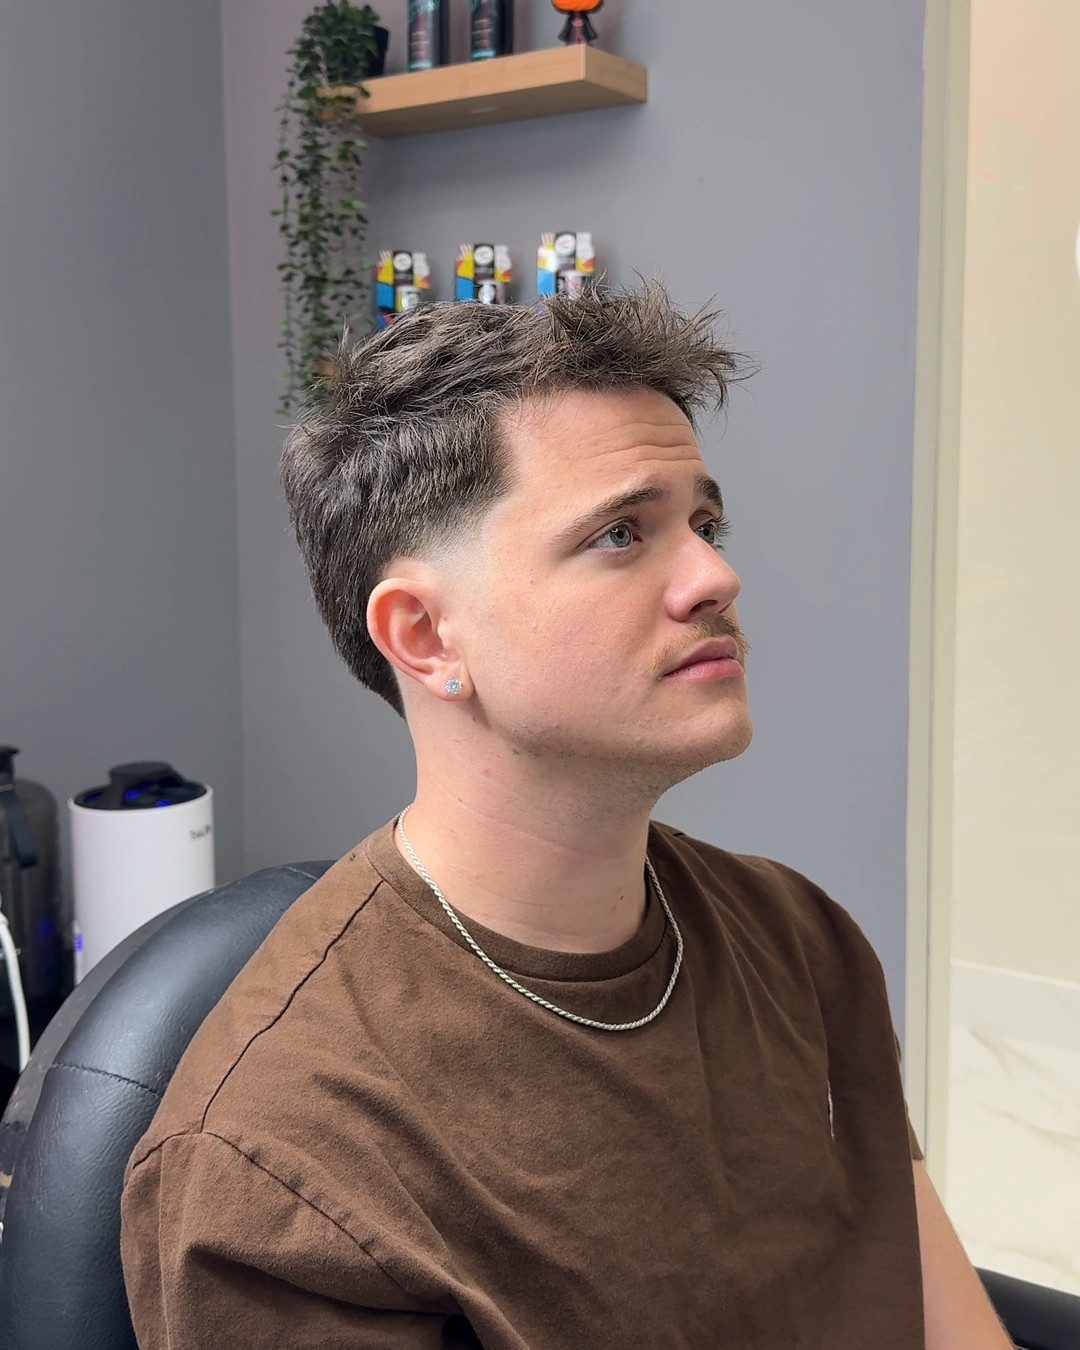
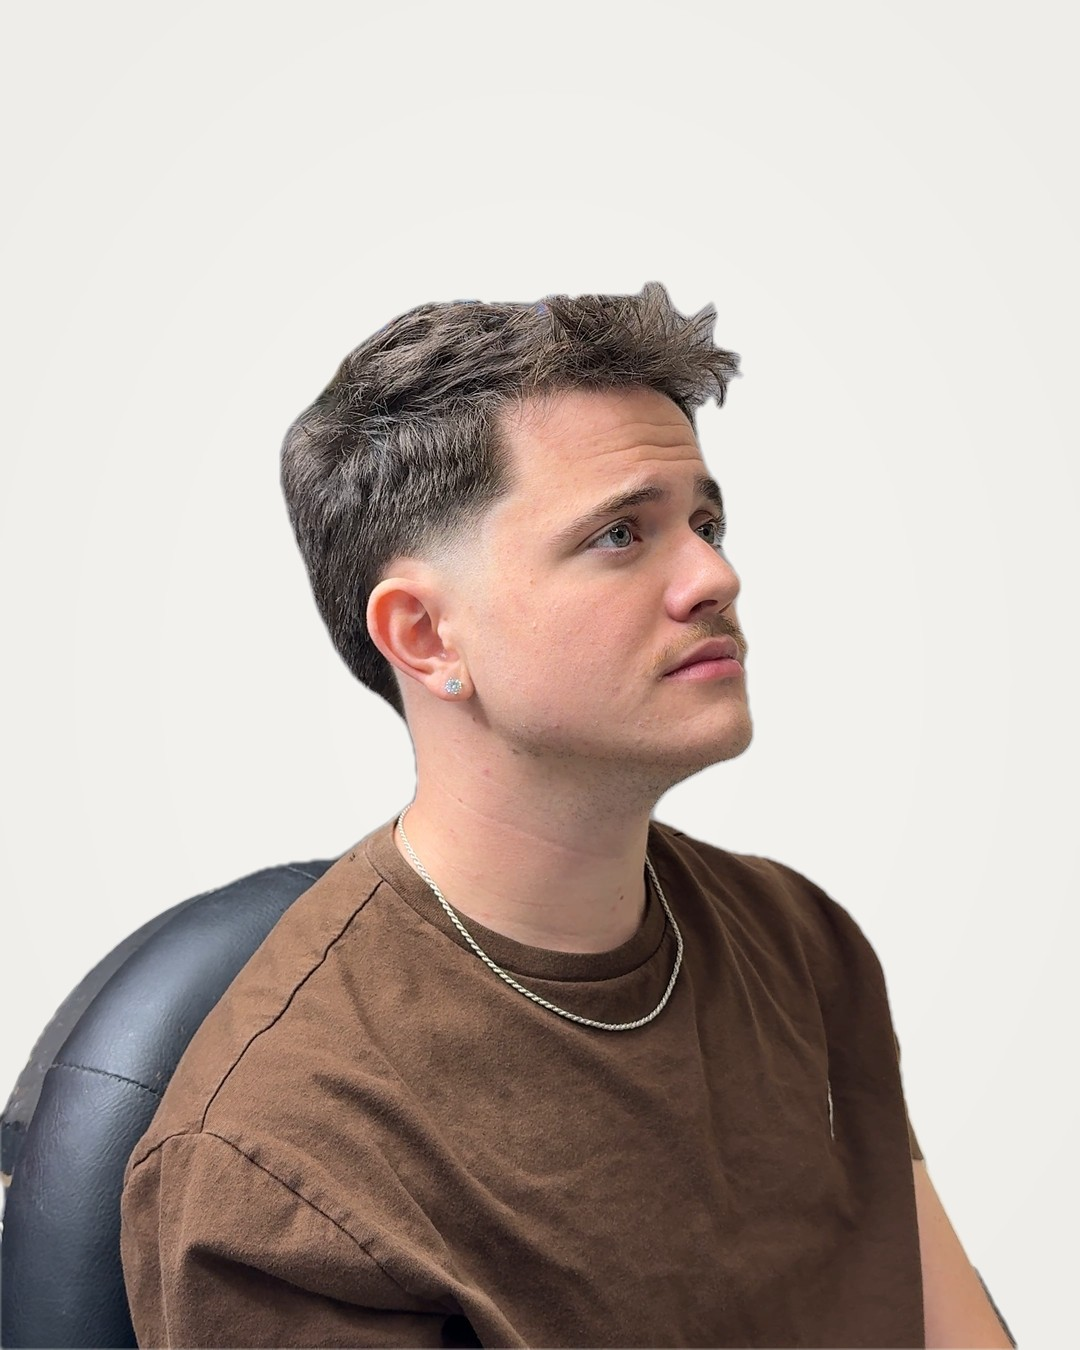
White studio backgrounds on all photos

diff --git a/index.html b/index.html
@@ -123,7 +123,7 @@
     /* Top bar */
     .topbar {
       position: fixed; inset: 0 0 auto 0; z-index: 50;
-      color: #fff;
+      color: var(--ink);
       transition: background .3s, color .3s, box-shadow .3s;
     }
     .topbar .wrap { display: grid; grid-template-columns: minmax(0,1fr) auto minmax(0,1fr); align-items: center; height: 64px; }
@@ -181,15 +181,15 @@
     }
     .hero img {
       position: absolute; inset: 0; width: 100%; height: 100%;
-      object-fit: cover; object-position: 50% 30%;
+      object-fit: cover; object-position: 50% 0%;
     }
     .hero::after {
       content: ""; position: absolute; inset: 0;
-      background: linear-gradient(180deg, rgba(0,0,0,.45) 0%, rgba(0,0,0,.25) 35%, rgba(0,0,0,.72) 75%, rgba(0,0,0,.85) 100%);
+      background: linear-gradient(180deg, rgba(17,17,17,0) 0%, rgba(17,17,17,0) 36%, rgba(17,17,17,.6) 62%, rgba(17,17,17,.88) 100%);
     }
     .hero-inner {
       position: relative; z-index: 1; width: 100%;
-      text-align: center; padding-bottom: clamp(96px, 14vh, 140px);
+      text-align: center; padding-bottom: clamp(48px, 8vh, 96px);
     }
     .hero .eyebrow { color: rgba(255,255,255,.85); }
     .hero h1 { font-size: clamp(2rem, 12vw, 6.5rem); }
